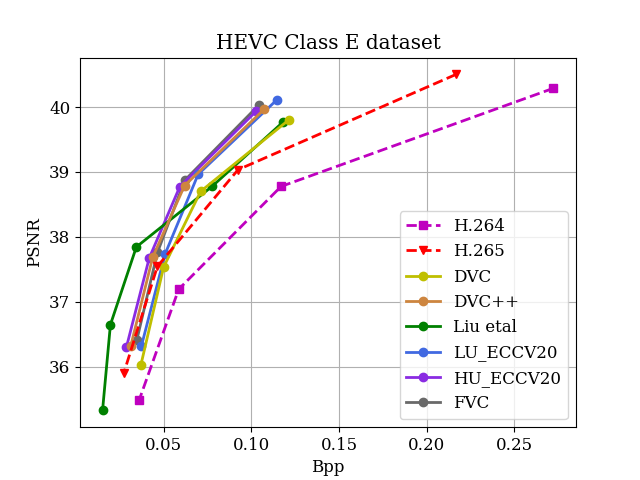
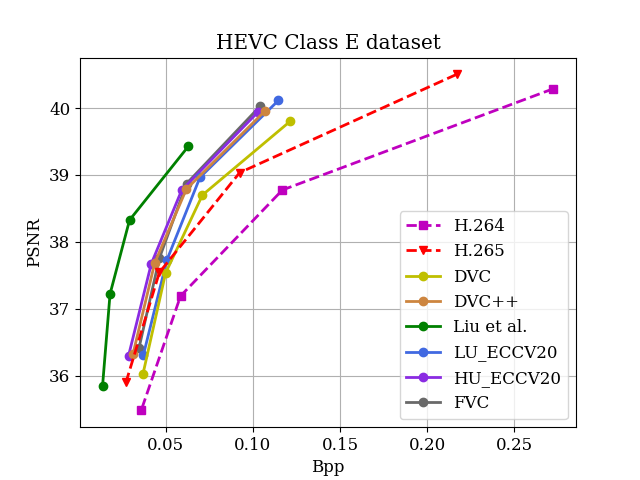
update benchmark

diff --git a/Benchmark/draw_HEVC.py b/Benchmark/draw_HEVC.py
@@ -25,7 +25,7 @@ def drawhevc(hclass):
         bpp, psnr = [0.0688, 0.1093, 0.1883, 0.3536], [31.7031, 33.2380, 34.5965, 35.7882]
         RY, = plt.plot(bpp, psnr, "c-o", color="darkred", linewidth=LineWidth, label='RY_CVPR20')
 
-        bpp, psnr = [0.0585, 0.0788, 0.1441, 0.2829, 0.4317], [32.0663, 33.2903, 34.5443, 35.5753, 36.2262]
+        bpp, psnr = [0.2355, 0.1192, 0.0739, 0.0559], [35.5245, 34.416, 33.3334, 32.0969]
         Liu, = plt.plot(bpp, psnr, "c-o", color="green", linewidth=LineWidth, label='Liu et al.')
 
         # bpp = [0.0661, 0.09362000000000001, 0.14695999999999998, 0.2232]
@@ -63,7 +63,7 @@ def drawhevc(hclass):
         bpp, psnr = [0.1117, 0.1951, 0.3158, 0.5441], [28.4321, 30.4874, 32.2846, 34.2527]
         RY, = plt.plot(bpp, psnr, "c-o", color="darkred", linewidth=LineWidth, label='RY_CVPR20')
 
-        bpp, psnr = [0.0996, 0.1481, 0.2522, 0.3971, 0.5109], [28.8004, 29.9462, 31.7668, 32.935, 33.4272]
+        bpp, psnr = [0.3777, 0.2371, 0.1446, 0.0982], [33.6704, 32.3317, 30.7426, 29.273]
         Liu, = plt.plot(bpp, psnr, "c-o", color="green", linewidth=LineWidth, label='Liu et al.')
         
         # bpp = [0.12157499999999999, 0.17965, 0.271025, 0.38745]
@@ -101,7 +101,7 @@ def drawhevc(hclass):
         bpp, psnr = [0.1173, 0.1990, 0.3347, 0.5589], [28.6544, 30.8125, 32.7950, 34.7743]
         RY, = plt.plot(bpp, psnr, "c-o", color="darkred", linewidth=LineWidth, label='RY_CVPR20')
 
-        bpp, psnr = [0.1018, 0.1486, 0.2473, 0.3817, 0.4838], [28.9021, 30.2752, 31.9603, 33.3702, 34.0233]
+        bpp, psnr = [0.3785, 0.2395, 0.1496, 0.1036], [34.2622, 32.5959, 30.9119, 29.4029]
         Liu, = plt.plot(bpp, psnr, "c-o", color="green", linewidth=LineWidth, label='Liu et al.')
 
         
@@ -137,7 +137,7 @@ def drawhevc(hclass):
         bpp, psnr = [0.11462,0.069586667,0.050683333,0.037183333], [40.11296333,38.96264,37.73251333,36.31533667]
         LU, = plt.plot(bpp, psnr, "c-o", color="royalblue", linewidth=LineWidth, label='LU_ECCV20')
 
-        bpp, psnr = [0.015, 0.0195, 0.0343, 0.0775, 0.1183], [35.3255, 36.647, 37.8434, 38.7762, 39.7742]
+        bpp, psnr = [0.063, 0.0292, 0.018, 0.0137], [39.4295, 38.3259, 37.2213, 35.8482]
         Liu, = plt.plot(bpp, psnr, "c-o", color="green", linewidth=LineWidth, label='Liu et al.')
 
         # bpp = [0.02223333333333333, 0.0281, 0.04416666666666667, 0.06459999999999999]
@@ -196,7 +196,7 @@ def drawhevc(hclass):
         bpp, msssim = [0.0861, 0.1324, 0.2307, 0.4242], [0.9596, 0.9669, 0.9763, 0.9824]
         RY, = plt.plot(bpp, msssim, "c-o", color="darkred", linewidth=LineWidth, label='RY_CVPR20')
 
-        bpp, msssim = [0.0585, 0.0788, 0.1441, 0.2829, 0.4317], [0.9527, 0.9624, 0.971, 0.9773, 0.9823]
+        bpp, msssim = [0.5875, 0.3704, 0.1976, 0.1098], [0.98851, 0.98448, 0.97854, 0.97026]
         Liu, = plt.plot(bpp, msssim, "c-o", color="green", linewidth=LineWidth, label='Liu et al.')
 
         # bpp = [0.0661, 0.09362000000000001, 0.14695999999999998, 0.2232]
@@ -235,7 +235,7 @@ def drawhevc(hclass):
         bpp, msssim = [0.1147, 0.1551, 0.2581, 0.4118], [0.9565, 0.9624, 0.9790, 0.9856]
         RY, = plt.plot(bpp, msssim, "c-o", color="darkred", linewidth=LineWidth, label='RY_CVPR20')
 
-        bpp, msssim = [0.0996, 0.1481, 0.2522, 0.3971, 0.5109], [0.9605, 0.9717, 0.9806, 0.9854, 0.988]
+        bpp, msssim = [0.466, 0.2933, 0.178, 0.1147], [0.9905, 0.98659, 0.97995, 0.97085]
         Liu, = plt.plot(bpp, msssim, "c-o", color="green", linewidth=LineWidth, label='Liu et al.')
 
 
@@ -275,7 +275,7 @@ def drawhevc(hclass):
         bpp, msssim = [0.1072, 0.1496, 0.2376, 0.3794], [0.9633, 0.9693, 0.9833, 0.9891]
         RY, = plt.plot(bpp, msssim, "c-o", color="darkred", linewidth=LineWidth, label='RY_CVPR20')
 
-        bpp, msssim = [0.1018, 0.1486, 0.2473, 0.3817, 0.4838], [0.9676, 0.9774, 0.9844, 0.9888, 0.9912]
+        bpp, msssim = [0.3535, 0.2227, 0.1414, 0.0963], [0.99233, 0.98849, 0.98277, 0.97411]
         Liu, = plt.plot(bpp, msssim, "c-o", color="green", linewidth=LineWidth, label='Liu et al.')
 
         
@@ -311,7 +311,7 @@ def drawhevc(hclass):
         bpp, msssim = [0.11462,0.069586667,0.050683333,0.037183333], [0.988766667, 0.9864, 0.982756667, 0.976416667]
         LU, = plt.plot(bpp, msssim, "c-o", color="royalblue", linewidth=LineWidth, label='LU_ECCV20')
 
-        bpp, msssim = [0.015, 0.0195, 0.0343, 0.0775, 0.1183], [0.9766, 0.9807, 0.9831, 0.9851, 0.988]
+        bpp, msssim = [0.2654, 0.1282, 0.0564, 0.0239], [0.99432, 0.99183, 0.9889, 0.98478]
         Liu, = plt.plot(bpp, msssim, "c-o", color="green", linewidth=LineWidth, label='Liu et al.')
 
         # bpp = [0.02223333333333333, 0.0281, 0.04416666666666667, 0.06459999999999999]
@@ -342,9 +342,9 @@ def drawhevc(hclass):
         
     savepathmsssim = prefix + '/' + 'HEVCClass_' + hclass + '_msssim'# + '.eps'
     if hclass != 'E':
-        plt.legend(handles=[h264, h265, DVC, DVCp, RY, LU, RaFC, FVC], loc=4)
+        plt.legend(handles=[h264, h265, DVC, DVCp, RY, Liu, LU, RaFC, FVC], loc=4)
     else:
-        plt.legend(handles=[h264, h265, DVC, DVCp, LU, RaFC, FVC], loc=4)
+        plt.legend(handles=[h264, h265, DVC, DVCp, Liu, LU, RaFC, FVC], loc=4)
 
     plt.grid()
     plt.xlabel('Bpp')

diff --git a/Benchmark/draw_mcl.py b/Benchmark/draw_mcl.py
@@ -24,6 +24,9 @@ LU, = plt.plot(bpp, psnr, "c-o", color="royalblue", linewidth=LineWidth, label='
 bpp, psnr =  [0.043773, 0.065584, 0.093487, 0.152313, 0.260900, 0.416239], [33.459643, 34.659647, 36.299582, 37.555222, 38.784670, 39.781974]
 EA, = plt.plot(bpp, psnr, "g-o", color="orange", linewidth=LineWidth, label='EA_CVPR20')
 
+bpp, psnr = [0.2156, 0.1203, 0.082, 0.0628], [38.6349, 37.4613, 36.2621, 34.8514]
+Liu, = plt.plot(bpp, psnr, "c-o", color="green", linewidth=LineWidth, label='Liu et al.')
+
 
 # bpp = [0.07350666666666665, 0.09998666666666667, 0.14866666666666667, 0.20885666666666666]
 # psnr = [34.19015183584638, 34.97325683520819, 36.4162965039923, 37.564191921189945]
@@ -53,7 +56,7 @@ savepathpsnreps = prefix + '/MCL_psnr' + '.eps'
 print(prefix)
 if not os.path.exists(prefix):
     os.makedirs(prefix)
-plt.legend(handles=[h264, h265, DVC, iccv19, EA, LU, rafc], loc=4)
+plt.legend(handles=[h264, h265, DVC, iccv19, EA, LU, rafc, Liu, FVC], loc=4)
 plt.grid()
 plt.xlabel('Bpp')
 plt.ylabel('PSNR')
@@ -77,6 +80,9 @@ LU, = plt.plot(bpp, psnr, "c-o", color="royalblue", linewidth=LineWidth, label='
 bpp, psnr =  [0.039060, 0.059494, 0.084072, 0.122407, 0.228456, 0.326567], [0.958350, 0.965656, 0.973480, 0.977267, 0.984815, 0.987433]
 EA, = plt.plot(bpp, psnr, "g-o", color="orange", linewidth=LineWidth, label='EA_CVPR20')
 
+bpp, psnr = [0.4664, 0.2951, 0.1752, 0.1074], [0.99009, 0.98783, 0.98307, 0.9774]
+Liu, = plt.plot(bpp, psnr, "c-o", color="green", linewidth=LineWidth, label='Liu et al.')
+
 bpp = [0.067980956, 0.080343472, 0.102782285, 0.133500782, 0.18545014, 0.281805116, 0.376178686]#, 0.543077581]
 psnr = [34.33114855, 35.00107532, 35.7351181, 36.56075116, 37.47248012, 38.5945216, 39.43083815]#, 40.29353013]
 msssim = [0.956373977, 0.96103441, 0.966706579, 0.971418613, 0.976173806, 0.982212426, 0.984971718]#, 0.987377043]
@@ -97,7 +103,7 @@ h265, = plt.plot(bpp, msssim, "r--v", linewidth=LineWidth, label='H.265')
 
 savepathmsssim = prefix + '/' + 'MCL_msssim' + '.png'
 savepathmsssimeps = prefix + '/' + 'MCL_msssim' + '.eps'
-plt.legend(handles=[h264, h265, DVC, EA, iccv19, LU, rafc], loc=4)
+plt.legend(handles=[h264, h265, DVC, EA, iccv19, LU, rafc, Liu, FVC], loc=4)
 plt.grid()
 plt.xlabel('Bpp')
 plt.ylabel('MS-SSIM')

diff --git a/Benchmark/draw_uvg.py b/Benchmark/draw_uvg.py
@@ -34,7 +34,7 @@ EA, = plt.plot(bpp, psnr, "g-o", color="orange", linewidth=LineWidth, label='EA_
 bpp, msssim = [0.0524, 0.0781, 0.1278, 0.2303], [34.5390, 35.8618, 37.1899, 38.4590]
 RY, = plt.plot(bpp, msssim, "c-o", color="darkred", linewidth=LineWidth, label='RY_CVPR20')
 
-bpp, psnr = [0.0437, 0.0612, 0.1083, 0.2128, 0.3112], [34.7485, 35.98, 37.1427, 38.2256, 39.0707]
+bpp, psnr = [0.1744, 0.0865, 0.0572, 0.0406], [38.1853, 37.0549, 35.9941, 34.702]
 Liu, = plt.plot(bpp, psnr, "c-o", color="green", linewidth=LineWidth, label='Liu et al.')
 
 bpp = [0.12377, 0.16239, 0.1983, 0.229, 0.2699, 0.3113]
@@ -63,7 +63,7 @@ savepathpsnr = prefix + '/UVG_psnr'
 print(prefix)
 if not os.path.exists(prefix):
     os.makedirs(prefix)
-plt.legend(handles=[h264, h265, DVC, DVCp, eccv, iccv, EA, RY, Liu, LU, rafc], loc=4)
+plt.legend(handles=[h264, h265, DVC, DVCp, eccv, iccv, EA, RY, Liu, LU, rafc, FVC], loc=4)
 plt.grid()
 plt.xlabel('Bpp')
 plt.ylabel('PSNR')
@@ -94,8 +94,8 @@ EA, = plt.plot(bpp, psnr, "g-o", color="orange", linewidth=LineWidth, label='EA_
 bpp, msssim = [0.0764, 0.1133, 0.2125, 0.3839], [0.9640, 0.9693, 0.9779, 0.9832]
 RY, = plt.plot(bpp, msssim, "c-o", color="darkred", linewidth=LineWidth, label='RY_CVPR20')
 
-bpp, msssim = [0.0437, 0.0612, 0.1083, 0.2128, 0.3112], [0.9537, 0.9619, 0.97, 0.9777, 0.9826]
-Liu, = plt.plot(bpp, psnr, "c-o", color="green", linewidth=LineWidth, label='Liu et al.')
+bpp, msssim = [0.5185, 0.3277, 0.1881, 0.1114], [0.9895, 0.98579, 0.98059, 0.97362]
+Liu, = plt.plot(bpp, msssim, "c-o", color="green", linewidth=LineWidth, label='Liu et al.')
 
 bpp = [0.12377, 0.16239, 0.1983, 0.229, 0.2699, 0.3113]
 msssim = [0.96126, 0.96591, 0.96708, 0.96867, 0.97117, 0.97186]
@@ -122,7 +122,7 @@ h265, = plt.plot(bpp, msssim, "r--v", linewidth=LineWidth, label='H.265')
 
 
 savepathmsssim = prefix + '/' + 'UVG_msssim'# + '.eps'
-plt.legend(handles=[h264, h265, DVC, DVCp, eccv, ha_iccv, iccv, EA, RY, Liu, LU, rafc], loc=4)
+plt.legend(handles=[h264, h265, DVC, DVCp, eccv, ha_iccv, iccv, EA, RY, Liu, LU, rafc, FVC], loc=4)
 plt.grid()
 plt.xlabel('Bpp')
 plt.ylabel('MS-SSIM')

diff --git a/Benchmark/draw_vtl.py b/Benchmark/draw_vtl.py
@@ -21,6 +21,9 @@ rafc, = plt.plot(bpp, psnr, 'c-*', color="blueviolet", linewidth=LineWidth, labe
 bpp, psnr = [0.3059625, 0.199, 0.136516, 0.093883], [34.5241105,  33.20, 31.7834635, 30.4204885]
 LU, = plt.plot(bpp, psnr, "c-o", color="royalblue", linewidth=LineWidth, label='LU_ECCV20')
 
+bpp, psnr = [0.3129, 0.185, 0.1033, 0.07], [35.2057, 33.7928, 32.2786, 30.8637]
+Liu, = plt.plot(bpp, psnr, "c-o", color="green", linewidth=LineWidth, label='Liu et al.')
+
 bpp = [0.149002168, 0.194118677, 0.269459397, 0.484332918]#, 0.956521083]
 psnr = [31.67178903, 32.56079993, 33.57877741, 35.89857494]#, 38.44629636]
 iccv, = plt.plot(bpp, psnr, "c-*", linewidth=LineWidth, label='AD_ICCV19')
@@ -38,7 +41,7 @@ savepathpsnr = prefix + '/VTL_psnr'# + '.eps'
 print(prefix)
 if not os.path.exists(prefix):
     os.makedirs(prefix)
-plt.legend(handles=[h264, h265, DVC, iccv, LU, rafc], loc=4)
+plt.legend(handles=[h264, h265, DVC, iccv, LU, rafc, Liu, FVC], loc=4)
 plt.grid()
 plt.xlabel('Bpp')
 plt.ylabel('PSNR')
@@ -62,6 +65,9 @@ rafc, = plt.plot(bpp, msssim, 'c-*', color="blueviolet", linewidth=LineWidth, la
 bpp, psnr = [0.3059625, 0.199, 0.136516, 0.093883], [0.9838005, 0.9793955, 0.9732655, 0.964076]
 LU, = plt.plot(bpp, psnr, "c-o", color="royalblue", linewidth=LineWidth, label='LU_ECCV20')
 
+bpp, psnr = [0.3449, 0.2146, 0.1282, 0.0777], [0.99114, 0.98771, 0.981, 0.97375]
+Liu, = plt.plot(bpp, psnr, "c-o", color="green", linewidth=LineWidth, label='Liu et al.')
+
 bpp = [0.149002168, 0.194118677, 0.269459397, 0.484332918]#, 0.956521083]
 psnr = [0.971382803, 0.975893586, 0.980153643, 0.988934007]#, 0.994301121]
 iccv, = plt.plot(bpp, psnr, "c-*", linewidth=LineWidth, label='AD_ICCV19')
@@ -79,7 +85,7 @@ h265, = plt.plot(bpp, msssim, "r--v", linewidth=LineWidth, label='H.265')
 
 
 savepathmsssim = prefix + '/' + 'VTL_msssim'# + '.eps'
-plt.legend(handles=[h264, h265, DVC, iccv, LU, rafc], loc=4)
+plt.legend(handles=[h264, h265, DVC, iccv, LU, rafc, Liu, FVC], loc=4)
 plt.grid()
 plt.xlabel('Bpp')
 plt.ylabel('MS-SSIM')

diff --git a/Benchmark/README.md b/Benchmark/README.md
@@ -10,8 +10,8 @@
 - <font color="#008000">EA_CVPR20</font> : [Scale-space Flow for End-to-end Optimized Video Compression](https://openaccess.thecvf.com/content_CVPR_2020/papers/Agustsson_Scale-Space_Flow_for_End-to-End_Optimized_Video_Compression_CVPR_2020_paper.pdf)
 - <font color="#8B0000">RY_CVPR20</font> : [Learning for Video Compression with Hierarchical Quality and Recurrent Enhancement](https://arxiv.org/pdf/2003.01966.pdf)
 - <font color="#8A2BE2">HU_ECCV20</font> : [Improving Deep Video Compression by Resolution-adaptive Flow Coding](http://www.ecva.net/papers/eccv_2020/papers_ECCV/papers/123470188.pdf)
-- <font color="#696969">FVC</font> : [FVC: A New Framework towards Deep Video Compression in Feature Space](https://arxiv.org/pdf/2105.09600.pdf)
 - <font color="#4169E1">LU_ECCV20</font> : [Content Adaptive and Error Propagation Aware Deep Video Compression](https://arxiv.org/pdf/2003.11282.pdf)
+- <font color="#696969">FVC</font> : [FVC: A New Framework towards Deep Video Compression in Feature Space](https://arxiv.org/pdf/2105.09600.pdf)
 - <font color="#15b01a">Liu et al.</font> : [Learned Video Compression with Residual Prediction and Loop Filter](https://arxiv.org/pdf/2108.08551.pdf)
 <!-- - <font color="#ff8c0f">M-LVC</font> : [M-LVC: Multiple Frames Prediction for Learned Video Compression](https://arxiv.org/abs/2004.10290) (questionable) -->
 
